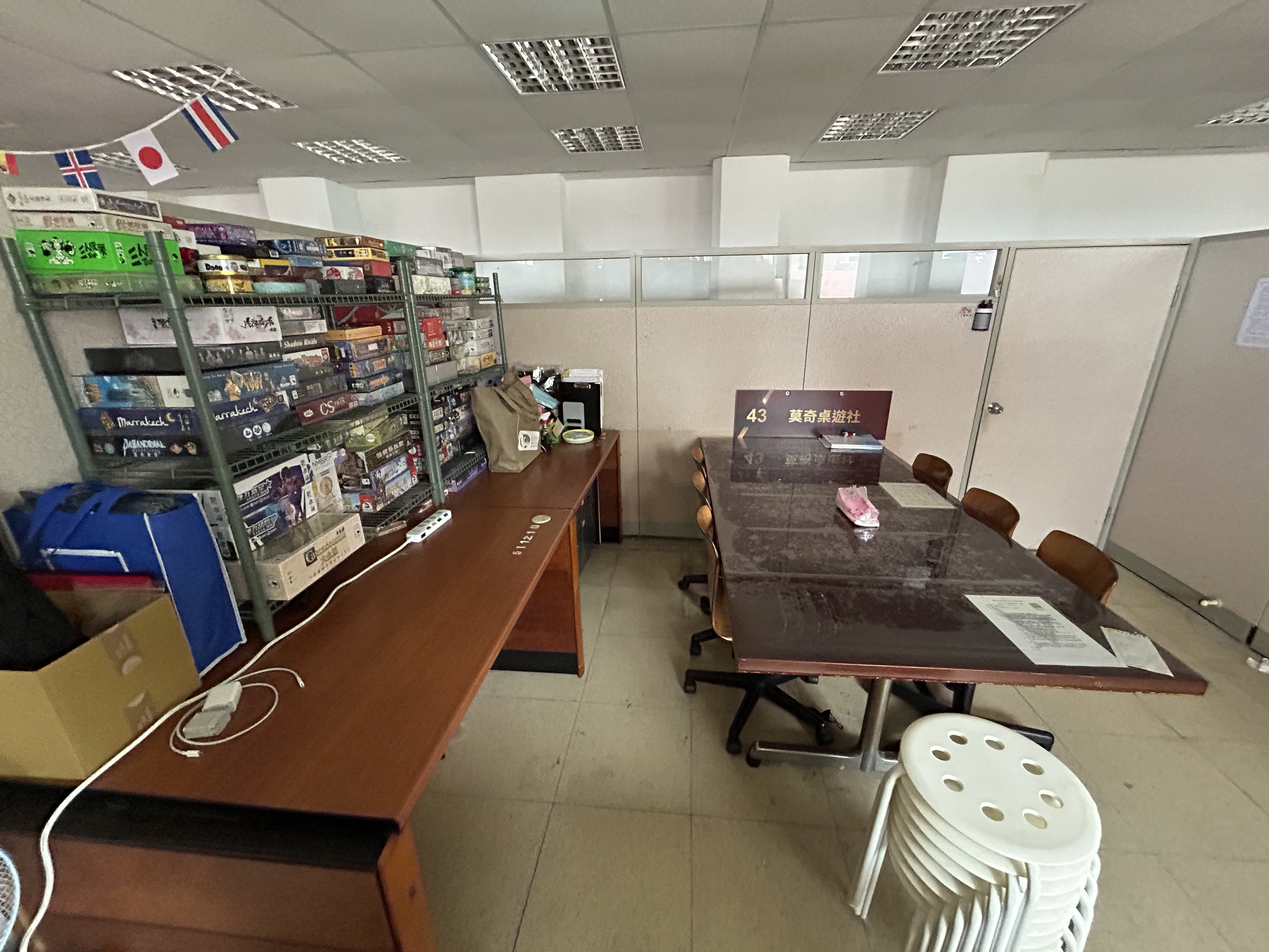
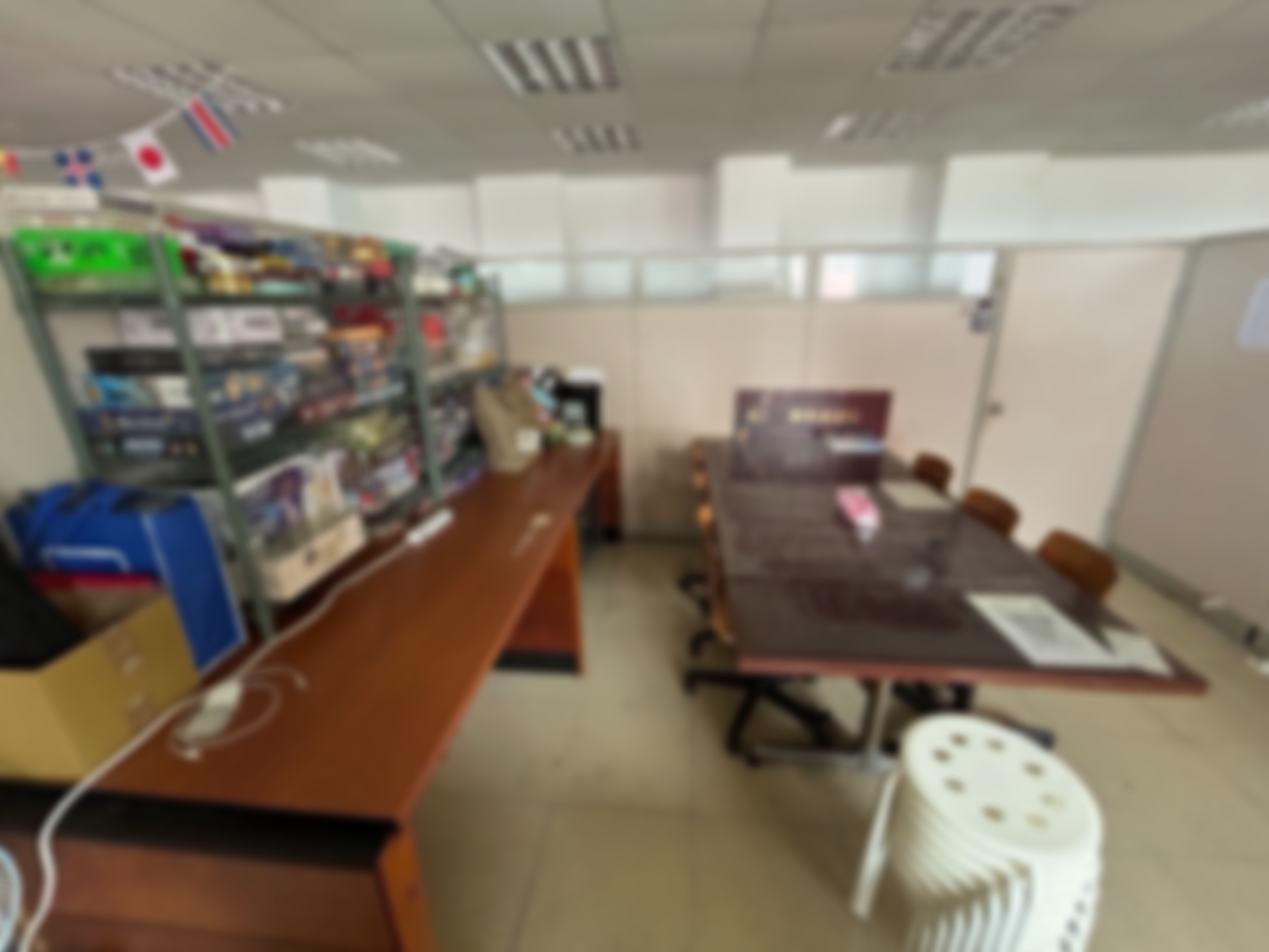
finished footer and trailer area

diff --git a/Club website/index.html b/Club website/index.html
@@ -18,7 +18,7 @@
         <h1>莫奇桌遊社</h1>
         <h2>桌遊 X TRPG X 日麻</h2>
     </div>
-
+    
     <main>
         <div class = "news">
             <img src = "img\w3.jpg">
@@ -37,8 +37,19 @@
         </div>
     </main>
     <footer>
-        <p></p>
-        <p></p>
-        <p></p>
+        <div class = "left" max-width = "332px">
+            <p>社課時間：每週三18:30-22:30</p>
+            <p>社課地點：學生活動中心L305</p>
+            <p>社辦地點：學生活動中心L511</p>
+        </div>
+        <div class = "mid" max-width = "224px">
+            <img src = "img/club icon small.png" height = 165px width = 165px>
+        </div>
+        <div class = "right" max-width = "332px">
+            <a href = "https://www.facebook.com/ntuemochi"><img src = "img/fb.png" width="165px" height="165px"></a>
+            <a href = "instagram.com/ntue_mochi"><img src = "img/ig.png" width="165px" height="165px"></a>
+        </div>
+       
     </footer>
+    
 </body>

diff --git a/Club website/css/style.css b/Club website/css/style.css
@@ -6,11 +6,13 @@ html{
 }
 
 h1{
-
+    font-size: 3rem;
 }
 
 h2{
-
+    font-size: 1.5rem;
+    font-style: italic;
+    letter-spacing: 0.7rem;
 }
 
 a, a:active, a:visited{
@@ -27,6 +29,7 @@ header{
     min-height: 128px;
     display: flex;
     justify-content: space-between;
+      
 }
 
 nav{
@@ -47,5 +50,31 @@ nav{
     flex-direction: column;
     background-image: url("../img/club office.jpg");
     background-size: 100%;
-    filter: blur(1px);
+}
+
+main{
+    background-color: white;
+}
+
+footer{
+    display: flex;
+    justify-content: space-between;
+    align-items: center;
+    min-height: "192px";
+}
+
+.left{
+    border-right: black 1px dotted;
+    padding-right: 128px;
+    display:flex ;
+    justify-content: center;
+    flex-direction: column;
+    min-width: "332px";
+}
+
+.right{
+    display: flex;
+    justify-content: space-evenly;
+    padding-left: 128px;
+    border-left: black 1px dotted;
 }
